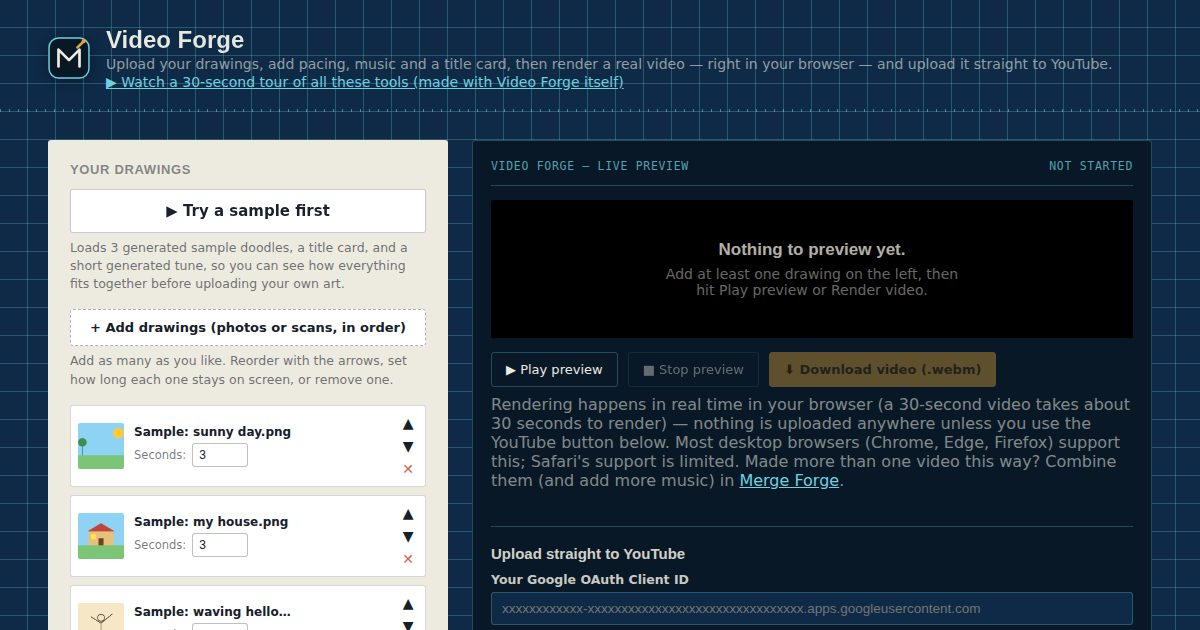
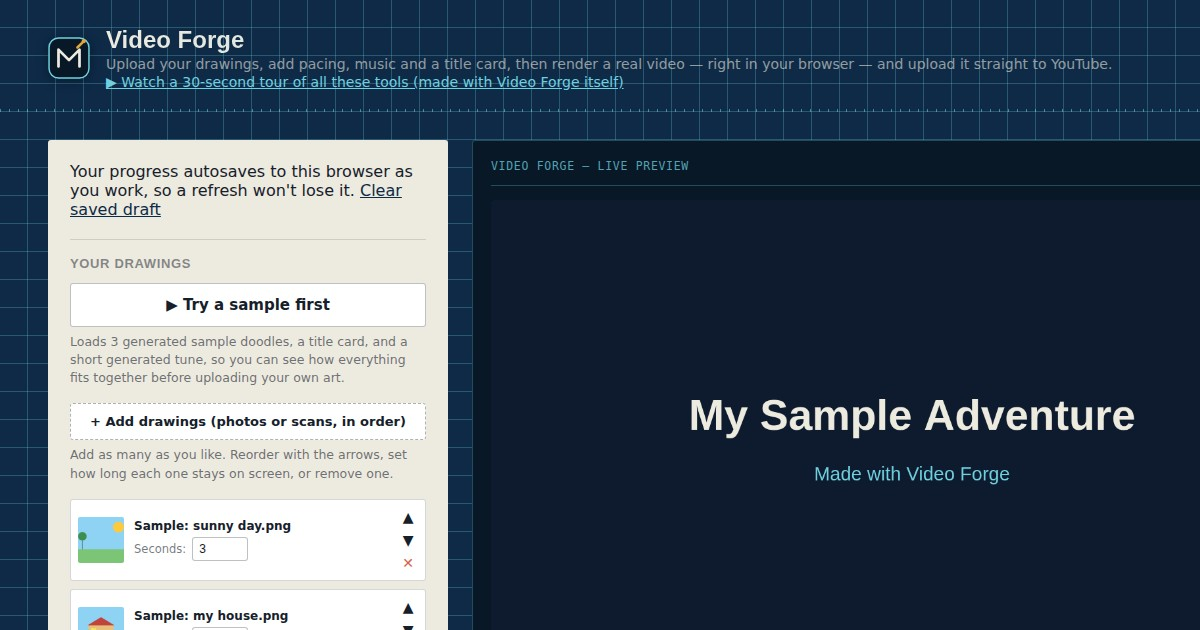
Add autosaving draft save/resume to Video Forge
Projects (drawings, captions, sound clips, and all settings) now
autosave to localStorage as you work, so an accidental refresh or
closed tab no longer loses the whole project. On load, a banner offers
to resume or discard any saved draft. Sound clips are serialized to
WAV and drawings to their existing data URLs so both round-trip
losslessly through storage.

Claude-Session: https://claude.ai/code/session_01YHretEVuD8m4VENuHZYMER

diff --git a/video-forge.html b/video-forge.html
@@ -241,6 +241,15 @@
 <main>
   <section class="panel">
 
+    <div class="status-box" id="draftBanner" style="margin-top:0;">
+      <span id="draftBannerText"></span>
+      <div class="btn-row" style="margin-top:8px;">
+        <button type="button" class="draft-btn secondary" id="resumeDraftBtn" style="flex:1;">↺ Resume draft</button>
+        <button type="button" class="draft-btn secondary" id="discardDraftBtn" style="flex:1;">✕ Discard</button>
+      </div>
+    </div>
+    <p class="hint" id="autosaveHint" style="margin:0 0 16px;">Your progress autosaves to this browser as you work, so a refresh won't lose it. <span id="autosaveStatus"></span> <a href="#" id="clearDraftLink" style="color:var(--navy);text-decoration:underline;">Clear saved draft</a></p>
+
     <div class="section-title">Your drawings</div>
     <div class="field">
       <button type="button" class="draft-btn secondary" id="sampleBtn">▶ Try a sample first</button>
@@ -493,6 +502,13 @@
   const ytResultBox = document.getElementById('ytResultBox');
   const ytErrorBox = document.getElementById('ytErrorBox');
 
+  const draftBanner = document.getElementById('draftBanner');
+  const draftBannerText = document.getElementById('draftBannerText');
+  const resumeDraftBtn = document.getElementById('resumeDraftBtn');
+  const discardDraftBtn = document.getElementById('discardDraftBtn');
+  const autosaveStatus = document.getElementById('autosaveStatus');
+  const clearDraftLink = document.getElementById('clearDraftLink');
+
   const ctx = stageCanvas.getContext('2d');
 
   // ---------- state ----------
@@ -548,6 +564,7 @@
   });
 
   function renderFrameList() {
+    scheduleAutosave();
     framesEl.innerHTML = '';
     framesEmpty.style.display = frames.length ? 'none' : 'block';
     frames.forEach((f, i) => {
@@ -570,6 +587,7 @@
       inp.addEventListener('change', () => {
         const f = frames.find(x => x.id === Number(inp.dataset.id));
         if (f) f.duration = Math.max(0.3, parseFloat(inp.value) || 3);
+        scheduleAutosave();
       });
     });
     framesEl.querySelectorAll('[data-up]').forEach(btn => btn.addEventListener('click', () => moveFrame(Number(btn.dataset.up), -1)));
@@ -604,6 +622,7 @@
   });
 
   function renderCaptionsList() {
+    scheduleAutosave();
     captionsListEl.innerHTML = '';
     captionsEmpty.style.display = captions.length ? 'none' : 'block';
     captions.forEach(cap => {
@@ -626,14 +645,17 @@
     captionsListEl.querySelectorAll('.cap-start').forEach(inp => inp.addEventListener('change', () => {
       const cap = captions.find(c => c.id === Number(inp.dataset.id));
       if (cap) cap.start = Math.max(0, parseFloat(inp.value) || 0);
+      scheduleAutosave();
     }));
     captionsListEl.querySelectorAll('.cap-duration').forEach(inp => inp.addEventListener('change', () => {
       const cap = captions.find(c => c.id === Number(inp.dataset.id));
       if (cap) cap.duration = Math.max(0.5, parseFloat(inp.value) || 3);
+      scheduleAutosave();
     }));
     captionsListEl.querySelectorAll('.cap-position').forEach(sel => sel.addEventListener('change', () => {
       const cap = captions.find(c => c.id === Number(sel.dataset.id));
       if (cap) cap.position = sel.value;
+      scheduleAutosave();
     }));
     captionsListEl.querySelectorAll('[data-remove]').forEach(btn => btn.addEventListener('click', () => {
       captions = captions.filter(c => c.id !== Number(btn.dataset.remove));
@@ -799,10 +821,18 @@
     loopField.style.display = isFlip ? 'block' : 'none';
     transitionField.style.display = isFlip ? 'none' : 'block';
   }
-  modeSelect.addEventListener('change', applyMode);
+  modeSelect.addEventListener('change', function () { applyMode(); scheduleAutosave(); });
   applyMode();
 
-  titleEnabled.addEventListener('change', () => { titleFields.style.display = titleEnabled.checked ? 'block' : 'none'; });
+  transitionSelect.addEventListener('change', scheduleAutosave);
+  fpsInput.addEventListener('change', scheduleAutosave);
+  loopInput.addEventListener('change', scheduleAutosave);
+  aspectSelect.addEventListener('change', scheduleAutosave);
+
+  titleEnabled.addEventListener('change', () => { titleFields.style.display = titleEnabled.checked ? 'block' : 'none'; scheduleAutosave(); });
+  titleText.addEventListener('input', scheduleAutosave);
+  titleSubtext.addEventListener('input', scheduleAutosave);
+  titleDuration.addEventListener('change', scheduleAutosave);
 
   // ---------- sound clips (uploaded or recorded) ----------
   async function decodeAudioFile(fileOrBlob) {
@@ -813,6 +843,48 @@
     } finally {
       ac.close();
     }
+  }
+
+  function audioBufferToWav(buffer) {
+    const numChannels = buffer.numberOfChannels;
+    const sampleRate = buffer.sampleRate;
+    const bitDepth = 16;
+    const bytesPerSample = bitDepth / 8;
+    const blockAlign = numChannels * bytesPerSample;
+    const numFrames = buffer.length;
+    const dataSize = numFrames * blockAlign;
+    const arrayBuffer = new ArrayBuffer(44 + dataSize);
+    const view = new DataView(arrayBuffer);
+
+    function writeString(offset, str) { for (let i = 0; i < str.length; i++) view.setUint8(offset + i, str.charCodeAt(i)); }
+
+    writeString(0, 'RIFF');
+    view.setUint32(4, 36 + dataSize, true);
+    writeString(8, 'WAVE');
+    writeString(12, 'fmt ');
+    view.setUint32(16, 16, true);
+    view.setUint16(20, 1, true);
+    view.setUint16(22, numChannels, true);
+    view.setUint32(24, sampleRate, true);
+    view.setUint32(28, sampleRate * blockAlign, true);
+    view.setUint16(32, blockAlign, true);
+    view.setUint16(34, bitDepth, true);
+    writeString(36, 'data');
+    view.setUint32(40, dataSize, true);
+
+    const channelData = [];
+    for (let c = 0; c < numChannels; c++) channelData.push(buffer.getChannelData(c));
+
+    let offset = 44;
+    for (let i = 0; i < numFrames; i++) {
+      for (let c = 0; c < numChannels; c++) {
+        let sample = Math.max(-1, Math.min(1, channelData[c][i]));
+        sample = sample < 0 ? sample * 0x8000 : sample * 0x7fff;
+        view.setInt16(offset, sample, true);
+        offset += 2;
+      }
+    }
+    return new Blob([arrayBuffer], { type: 'audio/wav' });
   }
 
   function addSoundClip(name, buffer, type) {
@@ -864,6 +936,7 @@
   });
 
   function renderSoundClipsList() {
+    scheduleAutosave();
     soundClipsEl.innerHTML = '';
     soundClipsEmpty.style.display = soundClips.length ? 'none' : 'block';
     soundClips.forEach(clip => {
@@ -890,18 +963,22 @@
     soundClipsEl.querySelectorAll('.clip-type').forEach(sel => sel.addEventListener('change', () => {
       const clip = soundClips.find(c => c.id === Number(sel.dataset.id));
       if (clip) clip.type = sel.value;
+      scheduleAutosave();
     }));
     soundClipsEl.querySelectorAll('.clip-start').forEach(inp => inp.addEventListener('change', () => {
       const clip = soundClips.find(c => c.id === Number(inp.dataset.id));
       if (clip) clip.start = Math.max(0, parseFloat(inp.value) || 0);
+      scheduleAutosave();
     }));
     soundClipsEl.querySelectorAll('.clip-volume').forEach(inp => inp.addEventListener('input', () => {
       const clip = soundClips.find(c => c.id === Number(inp.dataset.id));
       if (clip) clip.volume = parseFloat(inp.value);
+      scheduleAutosave();
     }));
     soundClipsEl.querySelectorAll('.clip-loop').forEach(inp => inp.addEventListener('change', () => {
       const clip = soundClips.find(c => c.id === Number(inp.dataset.id));
       if (clip) clip.loop = inp.checked;
+      scheduleAutosave();
     }));
     soundClipsEl.querySelectorAll('[data-remove]').forEach(btn => btn.addEventListener('click', () => {
       soundClips = soundClips.filter(c => c.id !== Number(btn.dataset.remove));
@@ -1389,6 +1466,151 @@
       progressWrap.classList.remove('show');
     }
   });
+
+  // ---------- draft autosave / resume (localStorage) ----------
+  const DRAFT_KEY = 'videoForgeDraft_v1';
+  let autosaveTimer = null;
+  let suppressAutosave = false; // true while a draft is being loaded, so loading it doesn't immediately re-save it
+
+  function collectDraftState() {
+    return {
+      version: 1,
+      savedAt: Date.now(),
+      settings: {
+        mode: modeSelect.value,
+        transition: transitionSelect.value,
+        fps: fpsInput.value,
+        loop: loopInput.value,
+        aspect: aspectSelect.value,
+        titleEnabled: titleEnabled.checked,
+        titleText: titleText.value,
+        titleSubtext: titleSubtext.value,
+        titleDuration: titleDuration.value
+      },
+      frames: frames.map(f => ({ dataUrl: f.dataUrl, name: f.name, duration: f.duration })),
+      captions: captions.map(c => ({ text: c.text, start: c.start, duration: c.duration, position: c.position })),
+      soundClips: [] // filled in asynchronously by saveDraft() before storing
+    };
+  }
+
+  function blobToDataUrl(blob) {
+    return new Promise((resolve, reject) => {
+      const reader = new FileReader();
+      reader.onload = () => resolve(reader.result);
+      reader.onerror = () => reject(new Error('Could not read audio for saving.'));
+      reader.readAsDataURL(blob);
+    });
+  }
+
+  async function saveDraft() {
+    if (!frames.length && !captions.length && !soundClips.length) { clearDraft(); return; }
+    try {
+      const state = collectDraftState();
+      state.soundClips = await Promise.all(soundClips.map(async (c) => ({
+        name: c.name, type: c.type, start: c.start, volume: c.volume, loop: c.loop,
+        audioDataUrl: await blobToDataUrl(audioBufferToWav(c.buffer))
+      })));
+      localStorage.setItem(DRAFT_KEY, JSON.stringify(state));
+      autosaveStatus.textContent = 'Saved just now.';
+    } catch (err) {
+      autosaveStatus.textContent = "Couldn't autosave (your project may be too large for browser storage) — remember to download when you're done.";
+    }
+  }
+
+  function scheduleAutosave() {
+    if (suppressAutosave) return;
+    if (autosaveTimer) clearTimeout(autosaveTimer);
+    autosaveTimer = setTimeout(saveDraft, 900);
+  }
+
+  function clearDraft() {
+    localStorage.removeItem(DRAFT_KEY);
+    autosaveStatus.textContent = '';
+  }
+
+  async function loadDraftIntoState(state) {
+    suppressAutosave = true;
+    try {
+      const loadedFrames = state.frames || [];
+      const newFrames = loadedFrames.map(f => ({ id: ++frameIdCounter, dataUrl: f.dataUrl, name: f.name, duration: f.duration, img: null }));
+      await Promise.all(newFrames.map(f => new Promise((resolve) => {
+        const img = new Image();
+        img.onload = () => { f.img = img; resolve(); };
+        img.onerror = () => resolve();
+        img.src = f.dataUrl;
+      })));
+      frames = newFrames;
+      renderFrameList();
+
+      captions = (state.captions || []).map(c => ({ id: ++captionIdCounter, text: c.text, start: c.start, duration: c.duration, position: c.position }));
+      renderCaptionsList();
+
+      const loadedClips = [];
+      for (const c of (state.soundClips || [])) {
+        try {
+          const resp = await fetch(c.audioDataUrl);
+          const blob = await resp.blob();
+          const buffer = await decodeAudioFile(blob);
+          loadedClips.push({ id: ++clipIdCounter, name: c.name, type: c.type, buffer, start: c.start, volume: c.volume, loop: c.loop });
+        } catch (e) { /* skip a clip that can't be decoded rather than failing the whole restore */ }
+      }
+      soundClips = loadedClips;
+      renderSoundClipsList();
+
+      const s = state.settings || {};
+      if (s.mode) modeSelect.value = s.mode;
+      applyMode();
+      if (s.transition) transitionSelect.value = s.transition;
+      if (s.fps) fpsInput.value = s.fps;
+      if (s.loop) loopInput.value = s.loop;
+      if (s.aspect) aspectSelect.value = s.aspect;
+      titleEnabled.checked = !!s.titleEnabled;
+      titleFields.style.display = titleEnabled.checked ? 'block' : 'none';
+      titleText.value = s.titleText || '';
+      titleSubtext.value = s.titleSubtext || '';
+      if (s.titleDuration) titleDuration.value = s.titleDuration;
+    } finally {
+      suppressAutosave = false;
+    }
+  }
+
+  function checkForSavedDraft() {
+    let raw;
+    try { raw = localStorage.getItem(DRAFT_KEY); } catch (e) { return; }
+    if (!raw) return;
+    let state;
+    try { state = JSON.parse(raw); } catch (e) { clearDraft(); return; }
+    const frameCount = (state.frames || []).length;
+    const when = new Date(state.savedAt || Date.now());
+    draftBannerText.textContent = 'You have an unsaved draft from ' + when.toLocaleString() + ' (' + frameCount + ' drawing' + (frameCount === 1 ? '' : 's') + ').';
+    draftBanner.classList.add('show');
+    resumeDraftBtn.onclick = async function () {
+      clearError();
+      resumeDraftBtn.disabled = true;
+      resumeDraftBtn.textContent = 'Loading…';
+      try {
+        await loadDraftIntoState(state);
+        draftBanner.classList.remove('show');
+      } catch (err) {
+        showError('Could not load the saved draft: ' + err.message);
+      } finally {
+        resumeDraftBtn.disabled = false;
+        resumeDraftBtn.textContent = '↺ Resume draft';
+      }
+    };
+    discardDraftBtn.onclick = function () {
+      clearDraft();
+      draftBanner.classList.remove('show');
+    };
+  }
+
+  clearDraftLink.addEventListener('click', function (e) {
+    e.preventDefault();
+    if (!window.confirm('Clear the autosaved draft? This only removes the saved copy in this browser — anything currently on screen is untouched.')) return;
+    clearDraft();
+  });
+
+  checkForSavedDraft();
 })();
 </script>
 </body>
